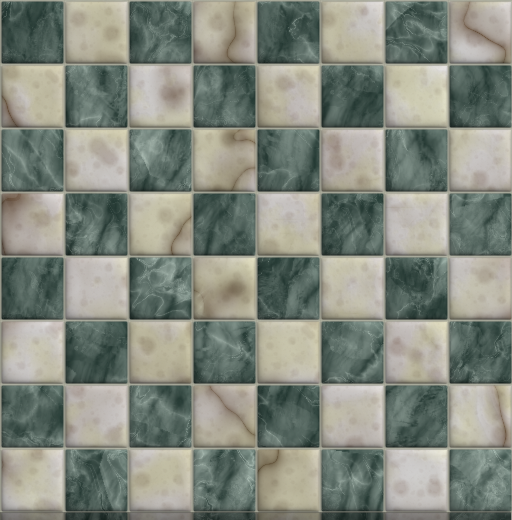
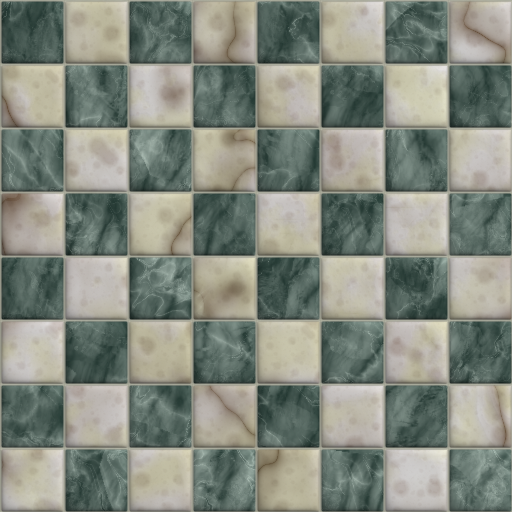
Adjusted Image sizes of boards

diff --git a/Chess-UI/Views/ChessBoardWindow.xaml b/Chess-UI/Views/ChessBoardWindow.xaml
@@ -18,7 +18,7 @@
                 <ImageBrush ImageSource="{x:Bind ViewModel.BoardBackgroundImage, Mode=OneWay}"/>
             </Grid.Background>
 
-            <ItemsRepeater x:Name="ChessBoardRepeater" ItemsSource="{x:Bind ViewModel.Board, Mode=TwoWay}">
+            <ItemsRepeater x:Name="ChessBoardRepeater" Width="600" Height="600" ItemsSource="{x:Bind ViewModel.Board, Mode=TwoWay}">
                 <ItemsRepeater.Layout>
                     <UniformGridLayout MaximumRowsOrColumns="8" />
                 </ItemsRepeater.Layout>

diff --git a/Chess-UI/Services/Images.cs b/Chess-UI/Services/Images.cs
@@ -46,7 +46,6 @@ namespace Chess_UI.Services
         {BoardTheme.Plastic, LoadImage("/Assets/Board/Plastic.png") },
         {BoardTheme.Marble, LoadImage("/Assets/Board/Marble.png") },
         {BoardTheme.Marble2, LoadImage("/Assets/Board/Marble2.png") },
-        {BoardTheme.Glass, LoadImage("/Assets/Board/Glass.png") }
         };
 
         public static readonly Dictionary<MainMenuButton, ImageSource> MainMenutImages = new()
